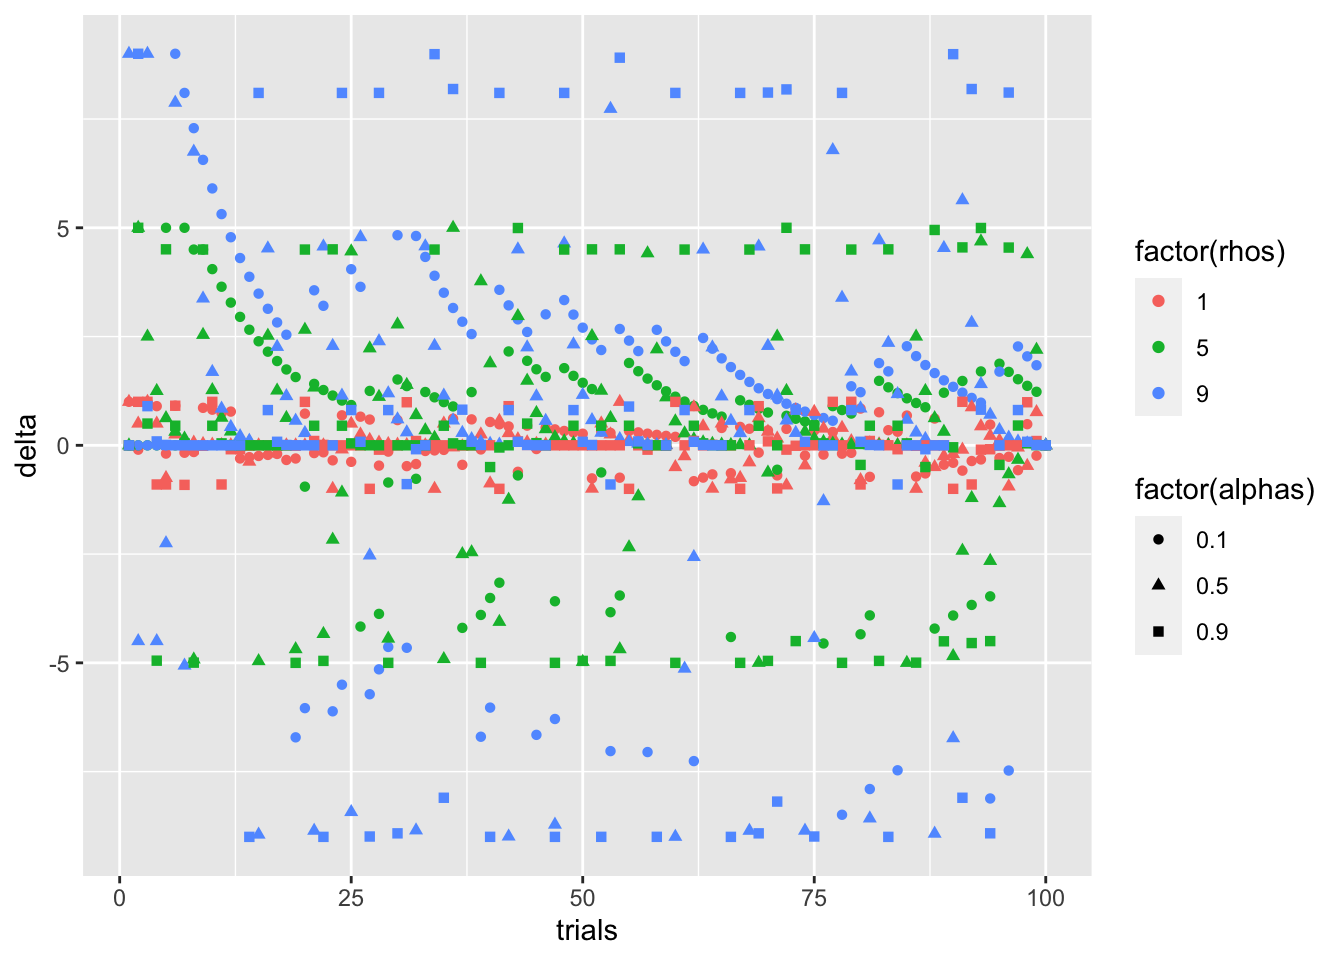
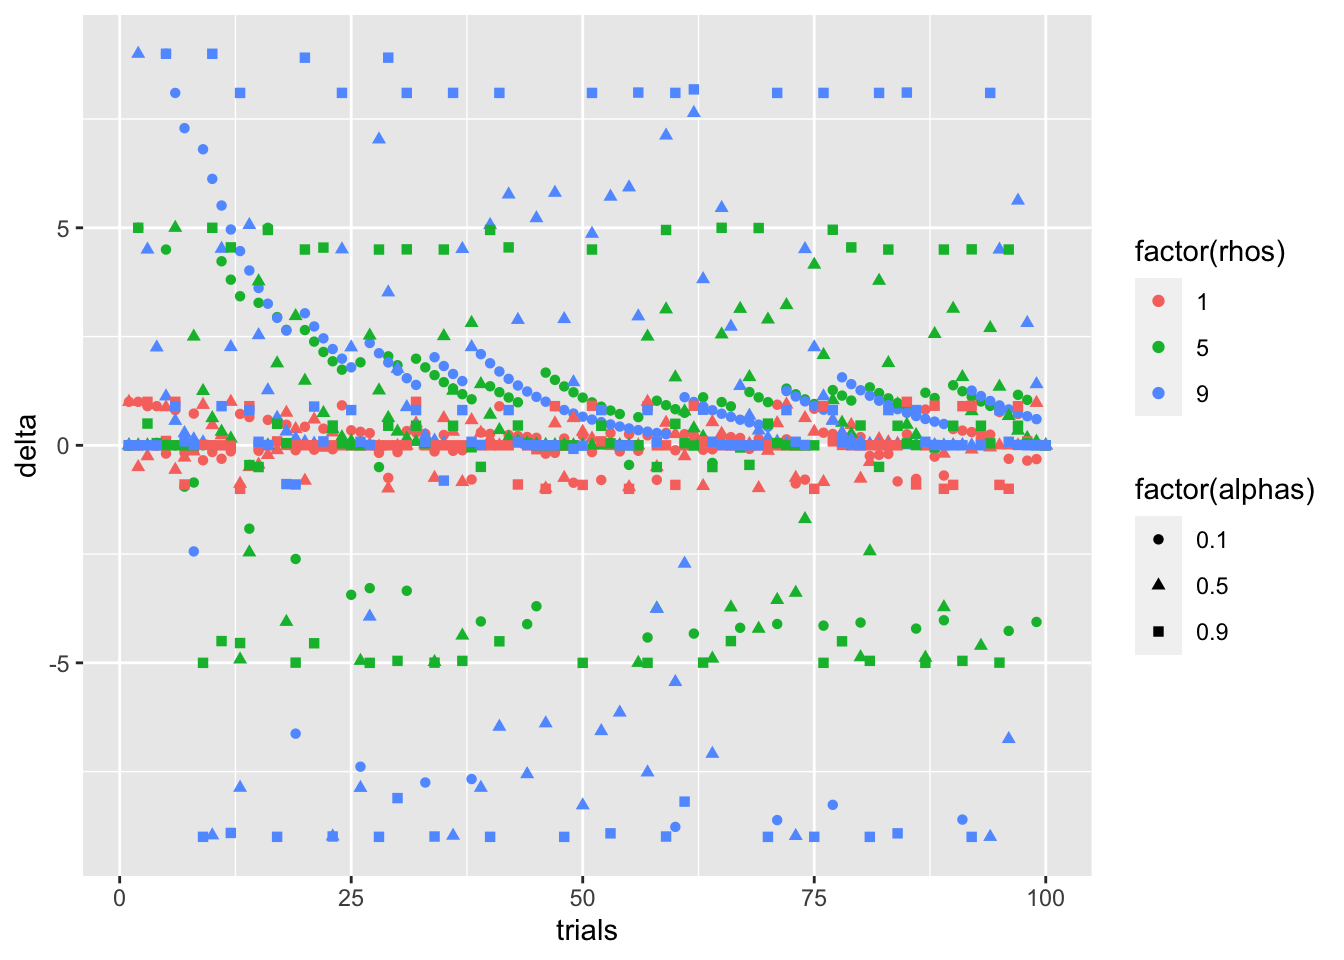
OK

diff --git a/docs/post/2022-03-12-/index.html b/docs/post/2022-03-12-/index.html
@@ -132,9 +132,9 @@
 
                   
                   <span class="file-info-divider"></span>
-                  Modified <relative-time datetime="Sat, 12 Mar 2022 17:20:59 &#43;0900"
+                  Modified <relative-time datetime="Sat, 12 Mar 2022 17:23:33 &#43;0900"
                     class="no-wrap">
-                    Sat, 12 Mar 2022 17:20:59 &#43;0900</relative-time>
+                    Sat, 12 Mar 2022 17:23:33 &#43;0900</relative-time>
                   
                 </div>
               </div>
@@ -482,10 +482,10 @@ print(all_alphas_color_point)</code></pre>
 <p>記述統計をとってみると、</p>
 <pre class="r"><code>##mean
 with(simulation_DF, tapply(delta, list(rhos, alphas), mean))</code></pre>
-<pre><code>##          0.1        0.5        0.9
-## 1 0.07760067 0.01286252 0.01100121
-## 5 0.43974304 0.08134765 0.05605056
-## 9 0.73435651 0.19261195 0.09999099</code></pre>
+<pre><code>##         0.1        0.5        0.9
+## 1 0.1063440 0.03023908 0.01211121
+## 5 0.4018482 0.09915743 0.05560561
+## 9 0.8458679 0.16593750 0.09999992</code></pre>
 <p>おっと、δの平均値だけ見ると、ρの高さが、δの大きさを予測してなさそうですね。</p>
 <p>ただ、図と合わせてみると、正の値であれ負の値であれδの絶対値の大きさに、ρが効きそうですね。絶対値の大きい正と絶対値の大きい負の値を足し合わせたから、0に近づいちゃったのかもしれません。</p>
 <p>てことで、以下の処理。</p>
@@ -528,9 +528,9 @@ print(only_gain_alphas_color_point)</code></pre>
 <pre class="r"><code>##mean
 with(only_gain_trial_simulation_DF, tapply(delta, list(rhos, alphas), mean))</code></pre>
 <pre><code>##         0.1      0.5       0.9
-## 1 0.5209803 0.245039 0.2795644
-## 5 1.5913677 1.227705 1.4759570
-## 9 2.7257330 1.965298 2.2646805</code></pre>
+## 1 0.4169013 0.316427 0.2217453
+## 5 1.5720608 1.183670 1.5822321
+## 9 1.7323303 2.099103 2.3057660</code></pre>
 <p>報酬が得られなかった試行を取り除いたら、つまりδが負になる試行を取り除いたら、全試行では陰に隠れていたρの強烈なδへのパワーが現れましたね。</p>
 <p>報酬感受性ρがδの予測誤差を修飾していることが確認されました。動機づけを生み出すドパミンは、他のパラメータで修飾されているかもしれませんね。気持ちよさ(hedonic)を生み出すモルヒネがドパミンの修飾パラメータだと僕は思いました。まあ強化学習とかQ学習とか数理的な背景は置いておいても、報酬得られた時にその主観的な気持ちよさが大きくなれば、そりゃその行動の動機づけ高まりますよね、多分。そいえば、射精時の主観的な気持ちよさが、オピオイド拮抗薬を入れたら下がったり<span class="citation">(<a href="#ref-Murphy1990" role="doc-biblioref">Murphy et al. 1990</a>)</span>するんで、まあ報酬それ自体の気持ち良さの修飾にオピオイド効いているような気はします。強化学習の報酬の文脈とはズレるけども。</p>
 <p>あと、すっごいどうでもいい後書きなんですけど、αを「あるふぁ」と打って変換で入力していたのですが、いっぱい「あるふぁ」を打っていたら、アルファタウリにF1頑張ってほしいなって思いました。すっごいどうでもいい後書き失礼しました。</p>
@@ -599,6 +599,14 @@ Murphy, Michael R., Stuart A. Checkley, Jonathan R. Seckl, and Stafford L. Light
 </body>
 
 <script type="application/javascript" src="https://takutopsych.github.io/js/github-style.js"></script>
+
+<link rel="stylesheet" href="https://cdn.jsdelivr.net/npm/katex@0.11.1/dist/katex.min.css"
+  integrity="sha384-zB1R0rpPzHqg7Kpt0Aljp8JPLqbXI3bhnPWROx27a9N0Ll6ZP/+DiW/UqRcLbRjq" crossorigin="anonymous">
+<script defer src="https://cdn.jsdelivr.net/npm/katex@0.11.1/dist/katex.min.js"
+  integrity="sha384-y23I5Q6l+B6vatafAwxRu/0oK/79VlbSz7Q9aiSZUvyWYIYsd+qj+o24G5ZU2zJz" crossorigin="anonymous"></script>
+<script defer src="https://cdn.jsdelivr.net/npm/katex@0.11.1/dist/contrib/auto-render.min.js"
+  integrity="sha384-kWPLUVMOks5AQFrykwIup5lo0m3iMkkHrD0uJ4H5cjeGihAutqP0yW0J6dpFiVkI" crossorigin="anonymous"
+  onload="renderMathInElement(document.body);"></script>
 
 
 
